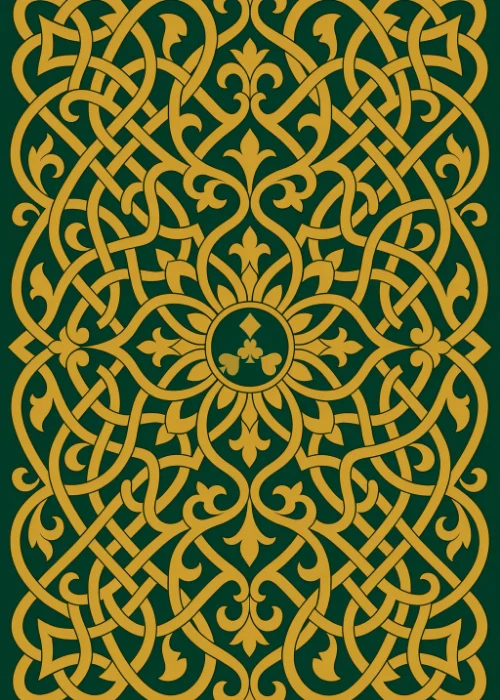
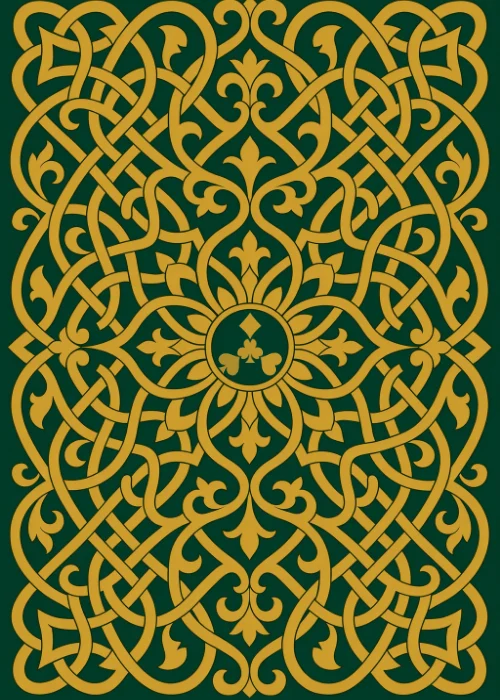
SKATGO-102 新牌背上下少裁一点，保住边缘花纹；关闭

diff --git a/.intentfold/tickets/SKATGO-102/grill.md b/.intentfold/tickets/SKATGO-102/grill.md
@@ -1,23 +1,18 @@
 # SKATGO-102 grill
 
-人从候选对比图里定的：
-- 「默认选k5，但是中间的花色，要换成我的logo的那个，你试试。然后其他的保留，我再选选，给用户切换的机会。但是 你先换这个k5作为默认」
-- 看了白圈版：「太丑了，不要那个白色的圈」
-- 看了彩色版：「也不要彩色的，要想原图那样隐去」
-
-所以默认牌背 `k5-logo`：Kenney K5 的蓝底和边框（用 Kenney 的矢量图，K3 就是 K5 去掉中间花色），中间换成 SkatGo logo，用边框的深蓝 `#3D77AB` 画，和原图花色一样淡淡地隐在中间。
+人一步步定下来的：
+1. 免费可商用的牌背（Kenney、BdRGames、Sylly、jeffshee、itch）放在牌桌上对比。人先选 K5 加 logo，先后否掉白圈版和彩色版，最后要「像原图那样隐去」的同色版，然后说「全部都不好看」。
+2. agent 自己画的 8 款几何牌背，人没有选。
+3. 人：「现有的那个牌背谁画的，我觉得比较搭，因为看起来高端」。现有的是 SKATGO-66 用 Azure OpenAI `gpt-image-2` 生成的。
+4. 人：「可以，然后不要太细密，否则有密集恐惧症，但是也不要留白，留白看起来低端，以及你可以让image生成好后，把我的logo贴上去（不要彩色，要和牌背一致，这样低调不夸张）」
+   - 用同一个模型、同一类描述（新的 `_back2.txt`），要求纹样更疏、铺满整张、中间留一个小圆章；
+   - 生成了炭黑配白、海军蓝配白、酒红配白、墨绿配金四种；
+   - logo 用牌背的另一种颜色、小尺寸贴进圆章（脚本读出圆章的颜色，自动取离它最远的那种颜色）。
+5. 人：「感觉你截图截得稍微多了点，上下边缘花纹刚好被截掉了一点……这几个我很满意，你可以先应用上去，用户可以在setting里选择」
+   - 从 2:3 的原图改成 5:7 时，上下只裁一半的差，另一半靠横向拉宽约 3.6%；
+   - 应用上去：设置里「Kartenrücken」可选原版和这四种。
 
 agent 自己定的：
-- **其他候选全部保留**，设置里加「Kartenrücken」让用户换（人说「我再选选」，之后再删减）。共 34 个：
-  - k5-logo；
-  - Kenney 蓝 1–5、红 1、绿 3；
-  - BdRGames 1–3 蓝和红、2 绿、3 黑；
-  - Sylly 6 个；
-  - jeffshee 5 个；
-  - itch 6 个；
-  - 原来的炭黑花纹（ornament）。
-- **尺寸**：都重画为 500×700（5:7）的 WebP。Kenney 和 Sylly 的 PNG 太小，从它们的矢量文件裁出。比 5:7 差几个百分点的整张拉伸到 5:7，不裁掉它们自己的边框。
-- **边框**：新牌背自带边框，铺满整张牌。原来的炭黑花纹保留我们的白框。
-- **授权**：jeffshee 是 CC BY 3.0，必须署名，在使用条款「Inhalte und Verfügbarkeit / Content and availability」加一句出处。所有来源写在 `app/public/cards/backs/LICENSES.txt`。
-- **旧的选择**：存着的选择若以后被删掉，回到默认牌背。
-- **charter**：ui.md 的 PlayingCard 牌背描述、engineering.md 加一行牌背文件的来源和生成方式。
+- 默认仍是原来的炭黑花纹（人没有指定新默认）。
+- 新牌背和原版一样画在牌的白框里。
+- 免费候选、agent 画的 8 款、jeffshee 的署名都删掉，使用条款恢复原样。

diff --git a/.intentfold/tickets/SKATGO-102/handoff.md b/.intentfold/tickets/SKATGO-102/handoff.md
@@ -1,31 +1,18 @@
 # SKATGO-102 handoff
 
 ## 改了什么
-- **默认牌背 `k5-logo`**：Kenney 的蓝底边框牌背（CC0），中间的花色换成 SkatGo logo，用边框的深蓝色淡淡地画在原来花色的位置。中间试过白圈版和彩色版，人都不要。
-- **其他候选全部保留**，设置里新增「Kartenrücken」，34 个缩略图可选，记在本浏览器：
-  - Kenney 7 个；
-  - BdRGames 8 个；
-  - Sylly 6 个；
-  - jeffshee 5 个；
-  - itch 6 个；
-  - 原来的炭黑花纹。
-- **文件**：`app/public/cards/backs/` 下 33 个 500×700 的 WebP，共约 1.4 MB，由 `make-backs.mjs` 生成，来源和授权在 `LICENSES.txt`。原来的炭黑花纹仍是 `app/public/cards/back.webp`。每页只加载选中的那一个牌背；设置面板打开时缩略图才加载。
-- **授权**：jeffshee 那 5 个是 CC BY 3.0，使用条款里加了署名（德英），`LEGAL_UPDATED` 改为 2026-10-14。
-- **charter**：ui.md 的牌背描述、engineering.md 加一行牌背文件。
+- **四种新牌背**：用原牌背的同一个图像模型（Azure OpenAI `gpt-image-2`）按原版风格生成，纹样更疏、铺满整张，中间一个小圆章。
+  - 四种配色：炭黑配白、海军蓝配白、酒红配白、墨绿配金。
+  - 圆章里贴 SkatGo logo，用牌背本身的另一种颜色，尺寸很小。
+  - 原图转成 5:7 时，上下只裁去一半的差，另一半靠横向拉宽约 3.6%，保住边缘的花纹。
+- **设置**：新增「Kartenrücken」，可选原版和这四种，选择记在本浏览器。默认仍是原版。所有牌背都画在牌的白框里。
+- **出处**：原图和生成参数在 `app/brand/cards/masters/`，提示词在 `prompts/`，`PROVENANCE.md` 加了一节，`calls.txt` 记了 4 次调用。
+- 中间试过的免费候选和 agent 自己画的几何牌背都已删除，使用条款没有变化。
+- **charter**：ui.md 的牌背描述，engineering.md 加一行牌背文件。
 
 ## 验证
 - 完整机械检查全过：typecheck、build、单元测试 124/124、client bundle、设计令牌、git grep、SSR、SEO（46 页）、SEO 测试 25/25。
-- 浏览器 `tmp/ac.mjs` 18 项全过（桌面、手机）：
-  - 默认牌背；
-  - 设置里 34 个；
-  - 切换后立刻生效，刷新后保留；
-  - 原来的炭黑花纹有白框；
-  - 全部图片都能取到；
-  - 条款里有署名；
-  - 页面不报错。
+- 浏览器 `tmp/ac.mjs` 16 项全过（桌面、手机）。
 
 ## 之后
-人说「我再选选」：候选可以在设置里直接试，定下后删掉不要的，从 `backs.ts` 和 `make-backs.mjs` 里去掉即可。
-
-## 服务
-web http://127.0.0.1:55102（自由对局 /de/spielen）、multiplayer 56102、数据库 57102 在跑。
+人说之后再考虑是否精修，比如某张重新生成，或调 logo 大小。

diff --git a/.intentfold/tickets/SKATGO-102/plan.md b/.intentfold/tickets/SKATGO-102/plan.md
@@ -1,9 +1,8 @@
-# SKATGO-102 plan
+# SKATGO-102 plan（最终）
 
-1. `make-backs.mjs`：从下载的素材包画出 34 个牌背，500×700，用 cwebp 转成 WebP，放进 `app/public/cards/backs/`，附 `LICENSES.txt`。
-2. `lib/skat/backs.ts`：牌背列表、默认值、图片地址、判断存的选择是否还有效。
-3. `settings.ts`：`back` 设置，默认 `k5-logo`；`useBack()`（服务器端和首次渲染用默认值，挂载后用存的选择）。
-4. `playing-card.tsx`：牌背图片随设置；新牌背铺满整张牌，原来的炭黑花纹保留白框。
-5. `frame.tsx`：设置里在「Kartenblatt」后加「Kartenrücken」，缩略图网格；新令牌 `dims.backChoices`。
-6. 使用条款（德英）加出处，`LEGAL_UPDATED` 改为 2026-10-14。
-7. charter 同步。
+1. `app/brand/cards/generate.sh` 加 kind `back2`，提示词 `prompts/_back2.txt` 和 `prompts/back-{charcoal,navy,burgundy,green}.txt`；生成的原图在 `masters/back-*.webp`，生成参数在旁边的 `.png.json`，每次调用记在 `calls.txt`，出处说明在 `PROVENANCE.md`。
+2. `.intentfold/tickets/SKATGO-102/make-backs.mjs`：把原图转成 500×700（5:7），在中间圆章贴同色 logo，输出到 `app/public/cards/backs/`。
+3. `lib/skat/backs.ts`：牌背列表（原版和四种新的），默认原版。
+4. `settings.ts` 加 `back` 和 `useBack()`；`playing-card.tsx` 按设置画牌背，都在白框里。
+5. `frame.tsx` 设置里加「Kartenrücken」缩略图（新令牌 `dims.backChoices`）。
+6. charter：ui.md 的牌背描述，engineering.md 加一行牌背文件。

diff --git a/.intentfold/tickets/SKATGO-102/ac.md b/.intentfold/tickets/SKATGO-102/ac.md
@@ -2,11 +2,10 @@
 
 构建产物 web 55102、multiplayer 56102，Playwright 有头浏览器，桌面 1280×820、手机 375×812（`tmp/ac.mjs`）。不打牌，只看牌桌开局时的牌背。
 
-- AC1：设置里有「Kartenrücken」，列出 34 个牌背，默认选中 k5-logo。
+- AC1：设置里「Kartenrücken」列出 5 个牌背（原版、charcoal、navy、burgundy、green），默认选中原版。
 - AC2：
-  - 牌桌上的牌背默认是 k5-logo，铺满整张牌；
-  - 改选 bdr-3-red 后立刻换成它，刷新后仍是它；
-  - 选原来的炭黑花纹时有 3px 白框；
+  - 牌桌上的牌背默认是原版，在 3px 白框里；
+  - 改选 navy 后立刻换成它，刷新后仍是它，也在白框里；
   - 每个牌背的图片都能取到。
-- AC3：使用条款（德英）里有 jeffshee CC BY 3.0 的署名。
 - 页面不报错。
+- 人看过对比图，对四种新牌背满意（「这几个我很满意」）。
